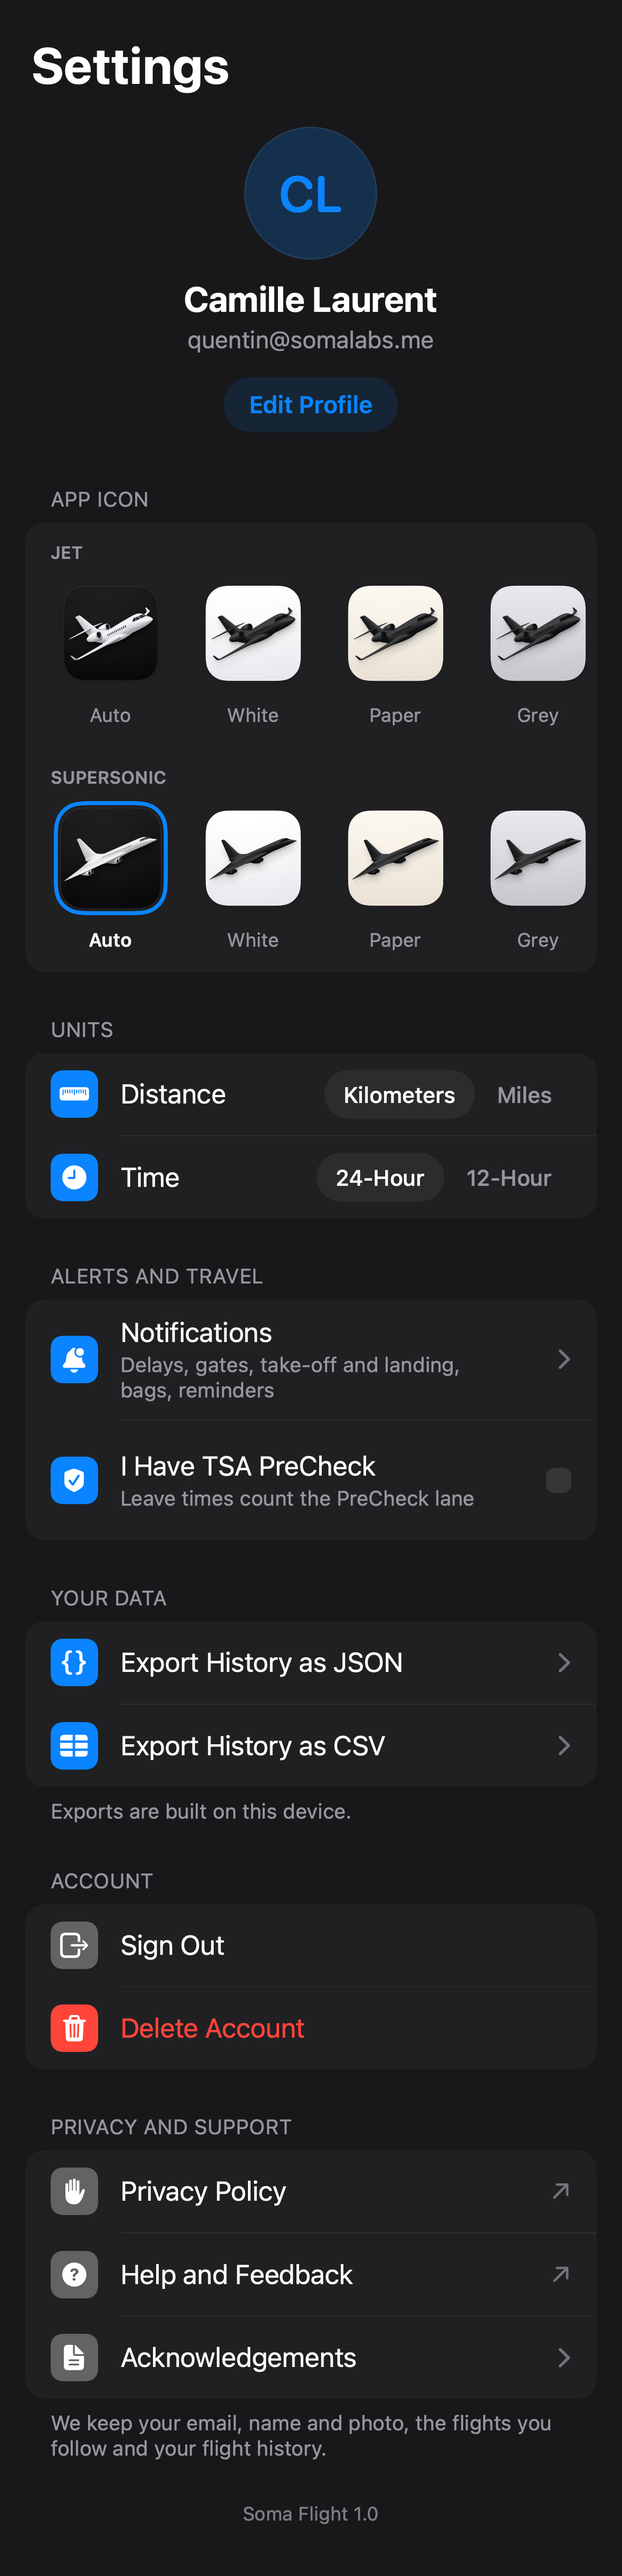
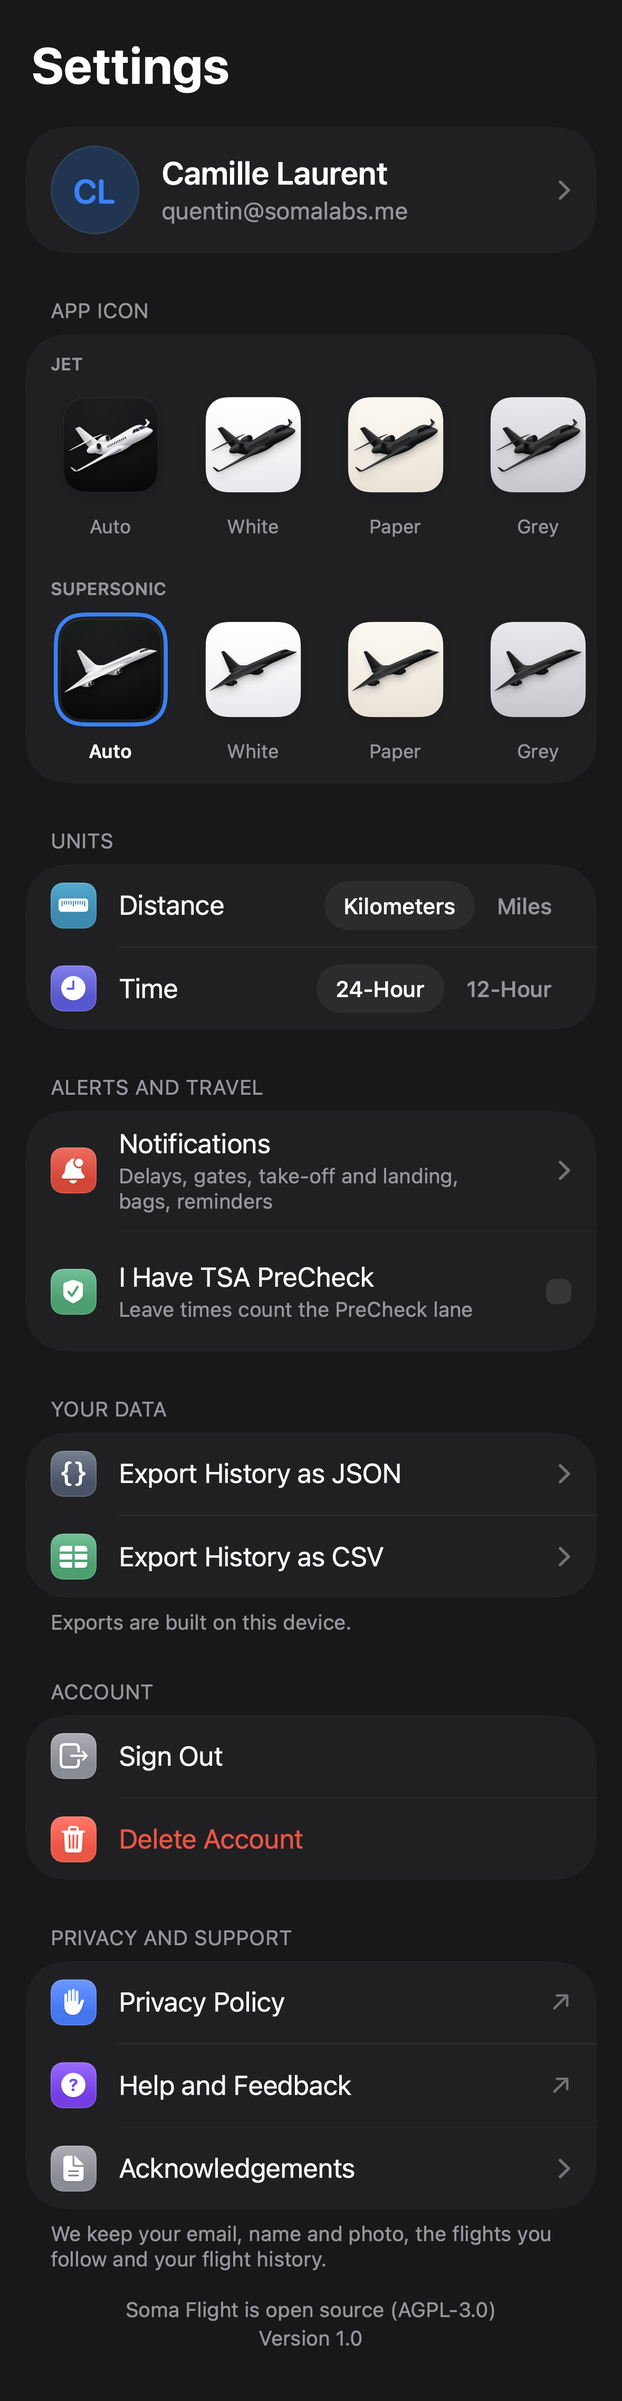
Restyle Settings after the OnePass settings screen
Centred inline title on the phone sheet, an account row card in place of the
centred hero, one gradient tile hue per row, 26 pt cards and an open source
(AGPL-3.0) footer above the version. Settings screenshots re-rendered.

diff --git a/Packages/FlightKit/Sources/FlightKit/UI/Screens/SettingsView.swift b/Packages/FlightKit/Sources/FlightKit/UI/Screens/SettingsView.swift
@@ -122,10 +122,23 @@ public struct SettingsView: View {
 
     private var list: some View {
         VStack(alignment: .leading, spacing: 0) {
-            ScreenTitle("Settings")
-                .scaledPadding(.horizontal, Theme.gutter)
-                .scaledPadding(.top, 22)
-                .scaledPadding(.bottom, 16)
+            if onClose != nil {
+                // The sheet's bar: the title centred on the line of the round X, as OnePass sets Settings.
+                Text("Settings")
+                    .scaledFont(17, weight: .semibold, relativeTo: .headline)
+                    .foregroundStyle(Theme.primary)
+                    .accessibilityAddTraits(.isHeader)
+                    .frame(maxWidth: .infinity)
+                    .frame(minHeight: 44)
+                    .scaledPadding(.top, 16)
+                    .scaledPadding(.horizontal, 64)
+                    .scaledPadding(.bottom, 6)
+            } else {
+                ScreenTitle("Settings")
+                    .scaledPadding(.horizontal, Theme.gutter)
+                    .scaledPadding(.top, 22)
+                    .scaledPadding(.bottom, 16)
+            }
             ScreenScroll(scrolls: scrolls) { content }
         }
         .background(Theme.background)
@@ -177,39 +190,43 @@ public struct SettingsView: View {
                 SettingsSection("Profile", footer: "Only friends see your name and emoji.") { ProfileRows(store: friends) }
             }
             SettingsSection("Units") {
-                SettingsRow(icon: "ruler.fill", title: "Distance") {
+                SettingsRow(icon: "ruler.fill", title: "Distance", tint: SettingsStyle.teal) {
                     PillPicker(options: [(DistanceUnit.km, "Kilometers"), (.mi, "Miles")], selection: $units.distance)
                 }
-                SettingsRow(icon: "clock.fill", title: "Time", last: true) {
+                SettingsRow(icon: "clock.fill", title: "Time", tint: SettingsStyle.indigo, last: true) {
                     PillPicker(options: [(TimeStyle.h24, "24-Hour"), (.h12, "12-Hour")], selection: $units.clock)
                 }
             }
             SettingsSection("Alerts and Travel") {
                 SettingsRow(icon: "bell.badge.fill", title: "Notifications",
                             subtitle: notifications == nil ? "Gate changes, delays, take-off and landing"
-                                : "Delays, gates, take-off and landing, bags, reminders",
+                                : "Delays, gates, take-off and landing, bags, reminders", tint: SettingsStyle.red,
                             action: notifications == nil ? openNotificationSettings : { showingNotifications = true }) {
                     RowChevron()
                 }
                 if calendar != nil {
                     SettingsRow(icon: "calendar", title: "Calendar", subtitle: "Put followed flights in your calendar",
+                                tint: SettingsStyle.orange,
                                 action: { showingCalendar = true }) { RowChevron() }
                 }
                 if documents != nil {
                     SettingsRow(icon: "person.text.rectangle.fill", title: "Travel Documents",
                                 subtitle: "Loyalty, passport and trusted traveler numbers, on this device only",
+                                tint: SettingsStyle.blue,
                                 action: { showingDocuments = true }) { RowChevron() }
                 }
                 SettingsRow(icon: "checkmark.shield.fill", title: "I Have TSA PreCheck",
-                            subtitle: "Leave times count the PreCheck lane", last: true) {
+                            subtitle: "Leave times count the PreCheck lane", tint: SettingsStyle.green, last: true) {
                     Toggle("I Have TSA PreCheck", isOn: $precheck).labelsHidden().tint(Theme.accent)
                 }
                 .accessibilityElement(children: .combine)
             }
             if let history {
                 SettingsSection("Your Data", footer: "Exports are built on this device.") {
-                    ExportRow(icon: "curlybraces", title: "Export History as JSON", format: .json, history: history)
-                    ExportRow(icon: "tablecells.fill", title: "Export History as CSV", format: .csv, history: history, last: true)
+                    ExportRow(icon: "curlybraces", title: "Export History as JSON", tint: SettingsStyle.slate, format: .json,
+                              history: history)
+                    ExportRow(icon: "tablecells.fill", title: "Export History as CSV", tint: SettingsStyle.green, format: .csv,
+                              history: history, last: true)
                 }
             }
             if session.session != nil {
@@ -230,18 +247,22 @@ public struct SettingsView: View {
             }
             SettingsSection("Privacy and Support",
                             footer: "We keep your email, name and photo, the flights you follow and your flight history.") {
-                SettingsRow(icon: "hand.raised.fill", title: "Privacy Policy", tone: .neutral,
+                SettingsRow(icon: "hand.raised.fill", title: "Privacy Policy", tone: .neutral, tint: SettingsStyle.blue,
                             action: { openURL(Self.privacyURL) }) { RowLink() }
-                SettingsRow(icon: "questionmark.circle.fill", title: "Help and Feedback", tone: .neutral,
+                SettingsRow(icon: "questionmark.circle.fill", title: "Help and Feedback", tone: .neutral, tint: SettingsStyle.purple,
                             action: { openURL(Self.supportURL) }) { RowLink() }
                 SettingsRow(icon: "doc.text.fill", title: "Acknowledgements", tone: .neutral, last: true,
                             action: { showingAcknowledgements = true }) { RowChevron() }
             }
-            Text("Soma Flight \(Self.version)")
-                .scaledFont(12)
-                .foregroundStyle(Theme.secondary.opacity(0.8))
-                .frame(maxWidth: .infinity)
-                .scaledPadding(.top, 26)
+            VStack(spacing: 2) {
+                Text("Soma Flight is open source (AGPL-3.0)")
+                Text("Version \(Self.version)")
+            }
+            .scaledFont(13)
+            .foregroundStyle(Theme.secondary)
+            .multilineTextAlignment(.center)
+            .frame(maxWidth: .infinity)
+            .scaledPadding(.top, 16)
             if dataNote {
                 MinimalDataNote()
                     .scaledPadding(.horizontal, 16)
@@ -343,65 +364,33 @@ public struct SettingsView: View {
 
 // MARK: - Rows
 
-/// Who is signed in, as the head of Settings: a large photo, the name and the account's email, centred, with
-/// Edit Profile under them (the profile editor); without a profile, the email alone; signed out, Sign In.
+/// Who is signed in, as the head of Settings, the way OnePass opens its own: a card with the photo, the name
+/// and the account's email, and a chevron when the row opens something (the profile editor, or Sign In when
+/// signed out). Without a profile the email alone, and nothing to open.
 struct SettingsHero: View {
     var session: UserSession?
     var profile: ProfileStore?
     var onSignIn: (() -> Void)?
     @State private var editing = false
+    @Environment(\.metricsScale) private var scale
 
     var body: some View {
         let editable = session != nil && profile?.owner != nil
         let name = editable ? (profile?.displayName ?? "") : ""
-        VStack(spacing: 0) {
-            UserAvatar(photo: editable ? profile?.photo : nil, name: name.isEmpty ? nil : name,
-                       id: profile?.owner ?? session?.userId, size: 84)
-                .overlay(Circle().strokeBorder(Theme.primary.opacity(0.06), lineWidth: 1))
-            Text(title(name))
-                .scaledFont(22, weight: .bold)
-                .foregroundStyle(Theme.primary)
-                .lineLimit(1)
-                .minimumScaleFactor(0.8)
-                .scaledPadding(.top, 12)
-            Text(detail)
-                .scaledFont(15)
-                .foregroundStyle(Theme.secondary)
-                .lineLimit(2)
-                .multilineTextAlignment(.center)
-                .scaledPadding(.top, 3)
-            if editable {
-                Button { editing = true } label: {
-                    Text(name.isEmpty ? "Add Name and Photo" : "Edit Profile")
-                        .scaledFont(15, weight: .semibold)
-                        .foregroundStyle(Theme.accent)
-                        .scaledPadding(.horizontal, 16)
-                        .scaledPadding(.vertical, 8)
-                        .background(Capsule().fill(Theme.accent.opacity(0.12)))
-                        .contentShape(Capsule())
-                }
-                .buttonStyle(.plain)
-                .scaledPadding(.top, 14)
-                .accessibilityHint("Edit your name and photo")
-            } else if session == nil, let onSignIn {
-                Button(action: onSignIn) {
-                    Text("Sign In")
-                        .scaledFont(15, weight: .semibold)
-                        .foregroundStyle(.white)
-                        .scaledPadding(.horizontal, 22)
-                        .scaledPadding(.vertical, 9)
-                        .background(Capsule().fill(Theme.accent))
-                        .contentShape(Capsule())
-                }
-                .buttonStyle(.plain)
-                .scaledPadding(.top, 14)
+        let action: (() -> Void)? = editable ? { editing = true } : (session == nil ? onSignIn : nil)
+        Group {
+            if let action {
+                Button(action: action) { card(name: name, opens: true) }
+                    .buttonStyle(SettingsRowStyle())
+                    .accessibilityHint(editable ? "Edit your name and photo" : "Sign in")
+            } else {
+                card(name: name, opens: false)
             }
         }
-        .frame(maxWidth: .infinity)
-        .scaledPadding(.horizontal, 24)
+        .background(RoundedRectangle(cornerRadius: SettingsStyle.radius, style: .continuous).fill(Theme.card))
+        .clipShape(RoundedRectangle(cornerRadius: SettingsStyle.radius, style: .continuous))
+        .scaledPadding(.horizontal, 16)
         .scaledPadding(.top, 4)
-        .scaledPadding(.bottom, 6)
-        .accessibilityElement(children: .contain)
         .sheet(isPresented: $editing) {
             if let profile {
                 ProfileOnboardingView(store: profile, mode: .edit) { editing = false }
@@ -413,6 +402,34 @@ struct SettingsHero: View {
         }
     }
 
+    private func card(name: String, opens: Bool) -> some View {
+        HStack(spacing: 14) {
+            UserAvatar(photo: session != nil && profile?.owner != nil ? profile?.photo : nil,
+                       name: name.isEmpty ? nil : name, id: profile?.owner ?? session?.userId,
+                       size: Theme.metric(56, scale))
+                .overlay(Circle().strokeBorder(Theme.primary.opacity(0.06), lineWidth: 1))
+            VStack(alignment: .leading, spacing: 2) {
+                Text(title(name))
+                    .scaledFont(20, weight: .semibold, relativeTo: .title3)
+                    .foregroundStyle(Theme.primary)
+                    .lineLimit(1)
+                    .minimumScaleFactor(0.8)
+                Text(detail)
+                    .scaledFont(15)
+                    .foregroundStyle(Theme.secondary)
+                    .lineLimit(2)
+                    .fixedSize(horizontal: false, vertical: true)
+            }
+            Spacer(minLength: 8)
+            if opens { RowChevron() }
+        }
+        .multilineTextAlignment(.leading)
+        .scaledPadding(.horizontal, 16)
+        .scaledPadding(.vertical, 12)
+        .contentShape(Rectangle())
+        .accessibilityElement(children: .combine)
+    }
+
     private func title(_ name: String) -> String {
         guard let session else { return "Not Signed In" }
         if !name.isEmpty { return name }
@@ -422,11 +439,36 @@ struct SettingsHero: View {
     private var detail: String {
         guard let session else { return "Sign in to keep your flights on every device." }
         if profile?.owner != nil, !(profile?.displayName ?? "").isEmpty { return Self.detail(session) }
+        if profile?.owner != nil { return "Add your name and photo" }
         return session.email == nil ? "Signed in with Apple" : "Signed in"
     }
 
     /// The line under the name: the account's email, or how it signed in when Apple hid the email.
     static func detail(_ session: UserSession) -> String { session.email ?? "Signed in with Apple" }
+}
+
+/// A row's tile, as OnePass sets its Settings: a white symbol on a rounded square of the row's hue, lit from
+/// above by the hue's own gradient, with a hairline of white around it.
+struct SettingsTile: View {
+    var symbol: String
+    var color: Color
+    @Environment(\.metricsScale) private var scale
+
+    var body: some View {
+        let side = Theme.metric(SettingsStyle.iconSide, scale)
+        let shape = RoundedRectangle(cornerRadius: Theme.metric(SettingsStyle.iconRadius, scale), style: .continuous)
+        shape
+            .fill(color.gradient)
+            .overlay { shape.strokeBorder(.white.opacity(0.18), lineWidth: 0.5) }
+            .frame(width: side, height: side)
+            .overlay {
+                Image(systemName: symbol)
+                    .font(.system(size: side * 0.52, weight: .semibold))
+                    .foregroundStyle(.white)
+                    .shadow(color: .black.opacity(0.12), radius: 0.5, y: 0.5)
+            }
+            .accessibilityHidden(true)
+    }
 }
 
 /// A titled group of rows on a rounded card, inset from the screen's edges, with an optional grey note under it
@@ -468,14 +510,25 @@ struct SettingsSection<Content: View>: View {
     }
 }
 
-/// Settings' shared measures and its icon palette: one blue for what the app does, one graphite for the
-/// account, privacy and support links, red only for deleting.
+/// Settings' shared measures and its tile palette, after OnePass's Settings: each row wears a tile of its
+/// own hue, graphite for the account and the plain links, red for deleting.
 enum SettingsStyle {
-    static let radius: CGFloat = 12
-    static let iconSide: CGFloat = 30
+    /// The inset grouped card's corner, as the system's own settings cards turn.
+    static let radius: CGFloat = 26
+    static let iconSide: CGFloat = 29
+    /// The tile's corner: 27 percent of its side.
+    static let iconRadius: CGFloat = iconSide * 0.27
     /// Where a row's text starts, so the separators between rows start there too.
     static let textInset: CGFloat = 16 + iconSide + 14
-    static let graphite = Color(light: 0x8E8E93, dark: 0x636366)
+    static let graphite = Color(light: 0x8A8C94, dark: 0x8A8C94)
+    static let blue = Color(light: 0x3378F5, dark: 0x3378F5)
+    static let teal = Color(light: 0x008CB3, dark: 0x008CB3)
+    static let indigo = Color(light: 0x5957D6, dark: 0x5957D6)
+    static let purple = Color(light: 0x7D3BED, dark: 0x7D3BED)
+    static let green = Color(light: 0x21A16B, dark: 0x21A16B)
+    static let orange = Color(light: 0xE09400, dark: 0xE09400)
+    static let red = Color(light: 0xE5372C, dark: 0xE5372C)
+    static let slate = Color(light: 0x475569, dark: 0x475569)
 }
 
 /// A history export row: opens the share sheet with `soma-flight-history-YYYY-MM-DD.<ext>`, built on
@@ -483,6 +536,7 @@ enum SettingsStyle {
 struct ExportRow: View {
     var icon: String
     var title: String
+    var tint: Color?
     var format: ExportFormat
     var history: any HistoryService
     var last = false
@@ -490,7 +544,7 @@ struct ExportRow: View {
     var body: some View {
         ShareLink(item: HistoryExport(format: format, history: history),
                   preview: SharePreview(HistoryExport.fileName(for: format, on: .now))) {
-            SettingsRow(icon: icon, title: title, last: last) { RowChevron() }
+            SettingsRow(icon: icon, title: title, tint: tint, last: last) { RowChevron() }
                 .contentShape(Rectangle())
         }
         .buttonStyle(.plain)
@@ -535,6 +589,8 @@ struct SettingsRow<Accessory: View>: View {
     var title: String
     var subtitle: String?
     var tone: Tone = .feature
+    /// The tile's own hue; nil takes the tone's.
+    var tint: Color?
     var last = false
     var action: (() -> Void)?
     @ViewBuilder var accessory: Accessory
@@ -555,7 +611,8 @@ struct SettingsRow<Accessory: View>: View {
     }
 
     private var fill: Color {
-        switch tone {
+        if let tint { return tint }
+        return switch tone {
         case .feature: Theme.accent
         case .neutral: SettingsStyle.graphite
         case .destructive: Theme.veryLate
@@ -564,12 +621,7 @@ struct SettingsRow<Accessory: View>: View {
 
     private var row: some View {
         HStack(spacing: 14) {
-            Image(systemName: icon)
-                .scaledFont(15, weight: .semibold)
-                .foregroundStyle(.white)
-                .frame(width: Theme.metric(SettingsStyle.iconSide, scale), height: Theme.metric(SettingsStyle.iconSide, scale))
-                .background(RoundedRectangle(cornerRadius: Theme.metric(7.5, scale), style: .continuous).fill(fill))
-                .accessibilityHidden(true)
+            SettingsTile(symbol: icon, color: fill)
             VStack(alignment: .leading, spacing: 2) {
                 Text(title).scaledFont(17).foregroundStyle(tone == .destructive ? Theme.veryLate : Theme.primary)
                 if let subtitle {
@@ -586,7 +638,7 @@ struct SettingsRow<Accessory: View>: View {
 }
 
 /// A row pressed: the card darkens under the finger, as the system's lists do.
-private struct SettingsRowStyle: ButtonStyle {
+struct SettingsRowStyle: ButtonStyle {
     func makeBody(configuration: Configuration) -> some View {
         configuration.label
             .background(configuration.isPressed ? Theme.primary.opacity(0.08) : .clear)
